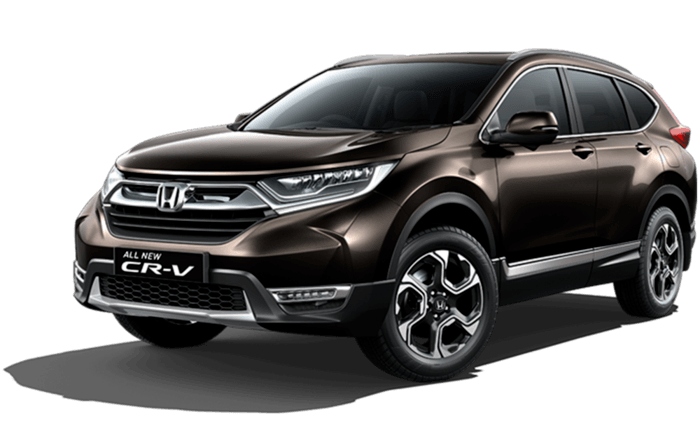
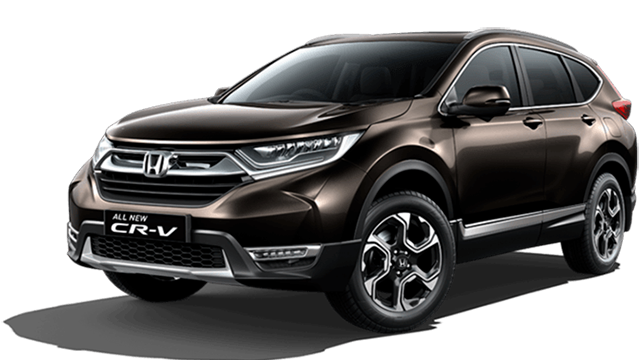
tidy

diff --git a/index.html b/index.html
@@ -72,18 +72,18 @@
         <img src="images/bigpic.jpg" class="background-pic" alt="main background picture of a car">
 
         <form class="background-style-3">
-            <h4 class="form-heading">Location</h4>
+            <h5 class="form-heading">Location</h5>
             <select name="locations" id="locations-dropdown">
                 <option value="Glasgow">Glasgow</option>
                 <option value="Edinburgh">Edinburgh</option>
                 <option value="Stirling">Stirling</option>
             </select>
 
-            <h4 class="form-heading">Start date and time</h4>
+            <h5 class="form-heading">Start date and time</h5>
             <input id="start-date" type="date" name="start-date" class="calendar" />
             <input id="start-time" type="time" min="08:00" max="18:00" value="09:00" class="time" />
 
-            <h4 class="form-heading">End date and time</h4>
+            <h5 class="form-heading">End date and time</h5>
             <input id="end-date" type="date" name="end-date" class="calendar" />
             <input id="end-time" type="time" min="08:00" max="18:00" value="18:00" class="time" />
 
@@ -100,19 +100,19 @@
         <section class="quick-links">
             <h3>View our cars</h3>
             <a class="car-type-box" href="cars-small.html">
-                <img class="car-button" src="images/cars/clio.jpg" alt="Link button: picture of a Renault clio">
+                <img class="car-button" src="images/cars/vauxhall-corsa-3-door.png" alt="Link button: picture of a Renault clio">
                 <p>Small cars</p>
             </a>
             <a class="car-type-box" href="cars-medium.html">
-                <img class="car-button" src="images/cars/a6.jpg" alt="Link button: picture of an Audi A6">
+                <img class="car-button" src="images/cars/a6.png" alt="Link button: picture of an Audi A6">
                 <p>Medium cars</p>
             </a>
             <a class="car-type-box" href="cars-large.html">
-                <img class="car-button" src="images/cars/crv.jpg" alt="Link button: picture of a Honda CRV">
+                <img class="car-button" src="images/cars/crv.png" alt="Link button: picture of a Honda CRV">
                 <p>Large cars</p>
             </a>
             <a class="car-type-box" href="vans.html">
-                <img class="car-button" src="images/cars/transit.jpg" alt="Link button: picture of a Ford Transit van">
+                <img class="car-button" src="images/cars/transit.png" alt="Link button: picture of a Ford Transit van">
                 <p>Vans</p>
             </a>
         </section>

diff --git a/cars-medium.html b/cars-medium.html
@@ -78,7 +78,7 @@
             <div class="box-description">
 
                 <div class="car-name">Nissan Leaf</div>
-                <div class="car-type">Electric medium</div>
+                <div class="car-type">Electric</div>
                 <div class="car-description">
                     Lorum ipsum Lorum ipsum Lorum ipsum aaa Lorum ipsum Lorum ipsum Lorum ipsum as Lorum ipsum asad.
                 </div>
@@ -111,7 +111,7 @@
                 <div class="car-name ">Mazda6</div>
                 <div class="car-type ">Family hatchback</div>
                 <div class="car-description "> Lorum ipsum Lorum ipsum Lorum ipsum aaa Lorum ipsum Lorum ipsum Lorum ipsum as Lorum ipsum asad.
-</div>
+                </div>
                 <div class="car-features">
                     <div class="car-item border-style-1">
                         <div class="car-fontawesome-icon"><i class="fas fa-users"></i></div>
@@ -142,7 +142,7 @@
                 <div class="car-name ">Audi A6</div>
                 <div class="car-type ">Executive saloon</div>
                 <div class="car-description "> Lorum ipsum Lorum ipsum Lorum ipsum aaa Lorum ipsum Lorum ipsum Lorum ipsum as Lorum ipsum asad.
-</div>
+                </div>
                 <div class="car-features">
                     <div class="car-item border-style-1">
                         <div class="car-fontawesome-icon"><i class="fas fa-users"></i></div>
@@ -166,7 +166,7 @@
     </main>
 
     <footer class="">
-        <div class="background-style-3 swing">
+        <div class="background-style-3">
             <h3>General enquiries</h3>
             <p>0141-555-5555</p>
             <h3>Emergency enquiries</h3>
@@ -180,7 +180,7 @@
             <p>Stirling</p>
         </div>
 
-        <div class="background-style-3 zoomOut">
+        <div class="background-style-3">
             <h3>Find us on</h3>
             <a href="https://www.facebook.com" target="_blank" rel="noopener noreferrer">
                 <img src="images/Social-Networks-Facebook-icon.png" class="social-logo" alt="Facebook link icon">

diff --git a/cars-small.html b/cars-small.html
@@ -162,31 +162,31 @@
             </div>
     </main>
 
-    <footer class=" ">
-        <div class="background-style-3 swing ">
+    <footer class="">
+        <div class="background-style-3">
             <h3>General enquiries</h3>
             <p>0141-555-5555</p>
             <h3>Emergency enquiries</h3>
             <p>0141-555-5556</p>
         </div>
 
-        <div class="background-style-3 ">
+        <div class="background-style-3">
             <h3>Locations</h3>
             <p>Glasgow</p>
             <p>Edinburgh</p>
             <p>Stirling</p>
         </div>
 
-        <div class="background-style-3 zoomOut ">
+        <div class="background-style-3">
             <h3>Find us on</h3>
-            <a href="https://www.facebook.com " target="_blank " rel="noopener noreferrer ">
-                <img src="images/Social-Networks-Facebook-icon.png " class="social-logo " alt="Facebook link icon ">
+            <a href="https://www.facebook.com" target="_blank" rel="noopener noreferrer">
+                <img src="images/Social-Networks-Facebook-icon.png" class="social-logo" alt="Facebook link icon">
             </a>
-            <a href="https://www.twitter.com " target="_blank " rel="noopener noreferrer ">
-                <img src="images/Social-Networks-Twitter-icon.png " class="social-logo " alt="Twitter link icon ">
+            <a href="https://www.twitter.com" target="_blank" rel="noopener noreferrer">
+                <img src="images/Social-Networks-Twitter-icon.png" class="social-logo" alt="Twitter link icon">
             </a>
-            <a href="https://www.linkedin.com " target="_blank " rel="noopener noreferrer ">
-                <img src="images/Social-Networks-Linkedin-icon.png " class="social-logo " alt="Linkedin link icon ">
+            <a href="https://www.linkedin.com" target="_blank" rel="noopener noreferrer">
+                <img src="images/Social-Networks-Linkedin-icon.png" class="social-logo" alt="Linkedin link icon">
             </a>
         </div>
     </footer>

diff --git a/cars-large.html b/cars-large.html
@@ -110,8 +110,8 @@
             <div class="box-description ">
                 <div class="car-name ">Honda CRV</div>
                 <div class="car-type ">Sports Utility</div>
-                <div class="car-description "> Lorum ipsum Lorum ipsum Lorum ipsum aaa Lorum ipsum Lorum ipsum Lorum ipsum as Lorum ipsum asad.
-.</div>
+                <div class="car-description "> Lorum ipsum Lorum ipsum Lorum ipsum aaa Lorum ipsum Lorum ipsum Lorum ipsum as Lorum ipsum asad. .
+                </div>
                 <div class="car-features">
                     <div class="car-item border-style-1">
                         <div class="car-fontawesome-icon"><i class="fas fa-users"></i></div>
@@ -142,7 +142,7 @@
                 <div class="car-name ">Ford Mondeo</div>
                 <div class="car-type ">Estate</div>
                 <div class="car-description "> Lorum ipsum Lorum ipsum Lorum ipsum aaa Lorum ipsum Lorum ipsum Lorum ipsum as Lorum ipsum asad.
-</div>
+                </div>
                 <div class="car-features">
                     <div class="car-item border-style-1">
                         <div class="car-fontawesome-icon"><i class="fas fa-users"></i></div>
@@ -166,7 +166,7 @@
     </main>
 
     <footer class="">
-        <div class="background-style-3 swing">
+        <div class="background-style-3">
             <h3>General enquiries</h3>
             <p>0141-555-5555</p>
             <h3>Emergency enquiries</h3>
@@ -180,7 +180,7 @@
             <p>Stirling</p>
         </div>
 
-        <div class="background-style-3 zoomOut">
+        <div class="background-style-3">
             <h3>Find us on</h3>
             <a href="https://www.facebook.com" target="_blank" rel="noopener noreferrer">
                 <img src="images/Social-Networks-Facebook-icon.png" class="social-logo" alt="Facebook link icon">

diff --git a/style/home.css b/style/home.css
@@ -25,6 +25,16 @@ form {
     flex-wrap: wrap;
 }
 
+input {
+    text-align: center;
+}
+
+select {
+    text-align-last: center;
+    padding-right: 29px;
+    direction: ltr;
+}
+
 .form-heading {
     width: 99%;
     padding: 24px 0px;
@@ -68,7 +78,7 @@ select {
     justify-content: center;
     width: 100%;
     margin: 0px auto 24px auto;
-    border-top: 5px rgb(51, 51, 51) solid;
+    border-top: 4px solid lightgray;
 }
 
 .upsell>h3 {

diff --git a/style/header.css b/style/header.css
@@ -18,7 +18,7 @@ header {
     justify-content: center;
     padding: 0px;
     margin: 0px 0px 0px 0px;
-    border-bottom: 5px rgb(51, 51, 51) solid;
+    border-bottom: 5px solid lightgray;
 }
 
 
@@ -154,6 +154,7 @@ footer {
     display: flex;
     flex-wrap: wrap;
     justify-content: center;
+    border-top: 3px solid lightgray;
 }
 
 footer>div {

diff --git a/style/darktheme.css b/style/darktheme.css
@@ -34,8 +34,10 @@ h4 {
 
 h5 {
     text-align: left;
-    font-style: italic;
+    font-weight: bold;
     margin: 0;
+    color: white;
+    font-size: 1.3em;
 }
 
 .box-style-1 {
